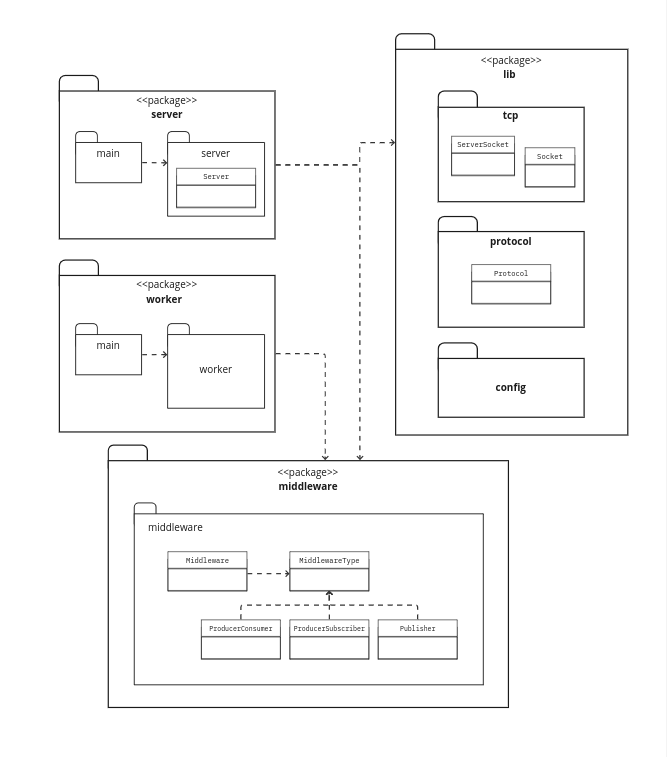
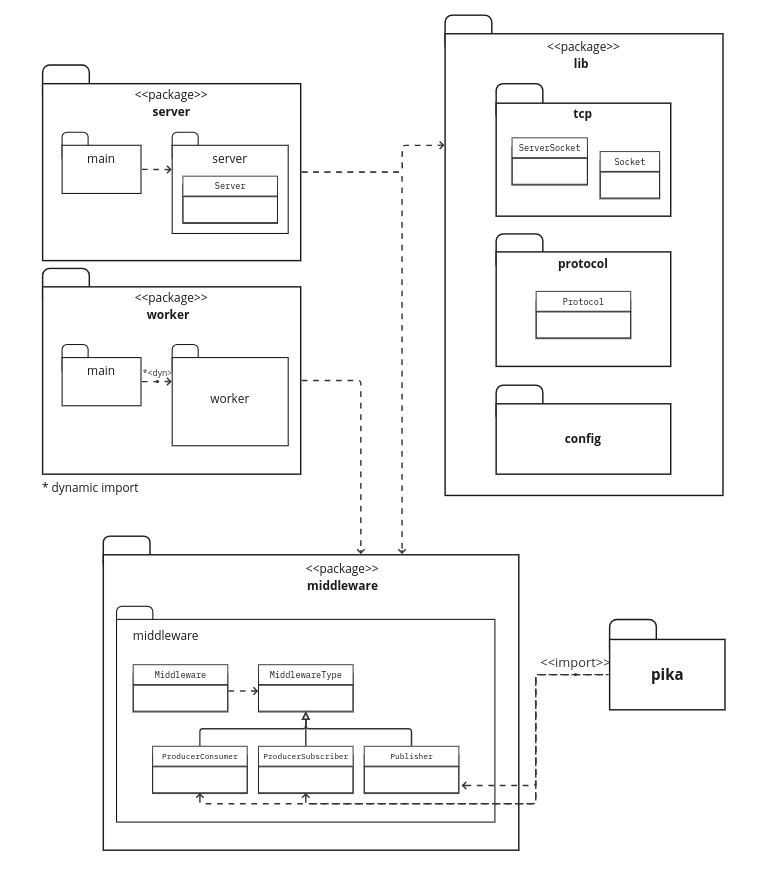
add to readme

diff --git a/README.md b/README.md
@@ -16,7 +16,9 @@ Indice:
   - [Introducción](#introducción)
   - [Desarrollo](#desarrollo)
   - [DAG de la solución](#dag-de-la-solución)
+  - [Cómo correr el proyecto](#cómo-correr-el-proyecto)
   - [Vistas](#vistas)
+    - [Escenarios](#escenarios)
     - [Física](#física)
       - [Despliegue](#despliegue)
       - [Robustez](#robustez)
@@ -25,6 +27,7 @@ Indice:
       - [Secuencia](#secuencia)
     - [Desarrollo](#desarrollo)
       - [Paquetes](#paquetes)
+  - [Video Demostración](#video-demostración)
 
 # Documentación técnica
 
@@ -34,7 +37,7 @@ En este proyecto se busca crear un sistema distribuido que analice 6 meses de re
 
 Los registros poseen trayectos (aeropuertos origen-destino), tarifa total,  distancia total, duración, cada segmento con escalas y aerolíneas.
 
-Utilizando una arquitectura cliente-servidor, los registros se deben leer en el cliente, recibir en el servidor y procesar en diversos workers de manera que los mismos se puedan replicar y el sistema sea escalable.
+Utilizando una arquitectura cliente-servidor, los registros se deben leer en el cliente, recibir en el servidor y procesar en diversos workers de manera que los mismos se puedan replicar y el sistema sea escalable. Además, se deben utilizar los middleware correspondientes para minimizar la pérdida de datos.
 
 Se busca procesar las siguientes queries:
 
@@ -48,11 +51,11 @@ media general de precios.
 
 ## Desarrollo
 
-El proyecto posee un cliente, un servidor y ocho workers con capacidad de replicación, además de siete middlewares, tres de los cuales son de la forma Producer-Subscriber (PS) y el resto Producer-Consumer (PC). 
+El proyecto posee un cliente, un servidor y ocho workers con capacidad de replicación. Estos se comunican a través de un Middleware, que puede utilizarse para el envío de mensajes con colas de la forma Producer-Subscriber (PS) o Producer-Consumer (PC).
 
-Para la creación de los middlewares se utilizó el software RabbitMQ, creando Exchanges para los de tipo PS y working queues para los de tipo PC. 
+Se utilizó el software RabbitMQ, creando Exchanges para los de tipo PS y Working Queues para los de tipo PC.
 
-Para la comunicación entre cliente y servidor se utilizaron sockets a través del protocolo TCP, con un protocolo de mensajería que consiste en los registros separados por "\n" con cada valor dentro del registro separado por ";". Estos registros se envían de a batches, con un header y un body que consiste en el tamaño de cada batch seguido de los registros. El header es un string que denota el tipo de datos que se están enviando y cuando se terminan de enviar todos los datos se envía un "EOF" con un body de valor cero. 
+Además se implementó un cliente de ejemplo que se conecta al sistema a través del protocolo TCP, con un protocolo de mensajería que consiste en los registros separados por "\n" con cada valor dentro del registro separado por ";". Estos registros se envían de a batches, con un header y un body que consiste en el tamaño de cada batch seguido de los registros. El header es un string que denota el tipo de datos que se están enviando y cuando se terminan de enviar todos los datos se envía un "EOF" con un body de valor cero.
 
 Los batches luego pasan por los middlewares y se van repartiendo a los workers para completar las queries necesarias. Cuando se van obteniendo resultados se los agrega a un middleware de resultados, que va devolviendo los mismos al servidor y a su vez este los manda al cliente.
 
@@ -64,7 +67,43 @@ Así, el servidor cuenta los EOF que recibe con un body que tiene el nombre de u
 
 ![](docs/diagramas/DAG.png)
 
-En este gŕafico se puede observar en forma de grafo el "camino" de los datos desde que se reciben en el servidor hasta que llegan a los resultados, luego de su correspondiente procesamiento. Cada nodo representa un worker, que procesa los datos recibidos y envía al siguiente worker los datos procesados. Finalmente, esos resultados convergen en un sink. 
+En este gŕafico se puede observar en forma de grafo el "camino" de los datos desde que se reciben en el servidor hasta que llegan a los resultados, luego de su correspondiente procesamiento. Cada nodo representa un worker, que procesa los datos recibidos y envía al siguiente worker los datos procesados. Finalmente, esos resultados convergen en un sink.
+
+
+## Cómo correr el proyecto
+
+- Instalación del paquete `tp`:
+``` 
+ pip install -e .
+```
+
+- Testear la instalación con:
+
+```
+tp --help
+```   
+
+- Configuración del sistema (valores por defecto en [workers](cli/utils/workers.py)):
+
+```
+tp configure
+```
+(Se puede verificar qué configuración aplicar con `tp configure --help`)
+
+- Ejecución del sistema
+
+```
+tp run --build
+```
+    
+(Se puede verificar qué imagen construir con `tp build --help`)
+
+### Cliente
+
+- Ejecución del cliente:
+```
+tp client --build
+```
 
 ## Vistas
 
@@ -78,24 +117,22 @@ En este gŕafico se puede observar en forma de grafo el "camino" de los datos de
   - Flujo Básico:
     1) El cliente se conecta al servidor.
     2) El cliente envía los datos de aeropuertos e itinerarios al sistema.
-- Consultar vuelos con muchas escalas
+- Consultar vuelos con muchas escalas _(Query 1)_
   Permite al cliente obtener información de los vuelos que tienen 3 o más escalas.
   - Precondiciones: Se realizó la carga de datos al sistema.
-  - Flujo Básico:
-    1) El cliente realiza la consulta.
-  - Postcondiciones: 
-- Consultar vuelos con distancia recorrida mayor a origen-destino
+  - Postcondiciones: _no hay_.
+- Consultar vuelos con distancia recorrida mayor a origen-destino _(Query 2)_
   Permite al cliente obtener información de los vuelos que tienen distancia recorrida 4 veces mayor o más a la distancia origen-destino.
   - Precondiciones: Se realizó la carga de datos al sistema.
-  - Postcondiciones:
-- Consultar vuelos más rápidos por tramo
+  - Postcondiciones: _no hay_.
+- Consultar vuelos más rápidos por tramo _(Query 3)_
   Permite al cliente obtener los 2 vuelos más rápidos (con menor tiempo) por cada tramo para aquellos vuelos con 3 o más escalas.
   - Precondiciones: Se realizó la carga de datos al sistema.
-  - Postcondiciones:
-- Consultar métricas de precios por trayecto
+  - Postcondiciones: _no hay_.
+- Consultar métricas de precios por trayecto _(Query 4)_
   Obtener, para los vuelos con precio mayor a la media, el valor medio y máximo de precio por cada trayecto.
   - Precondiciones: Se realizó la carga de datos al sistema.
-  - Postcondiciones: 
+  - Postcondiciones: _no hay_.
 
 ### Física
 
@@ -111,6 +148,8 @@ En este diagrama de despliegue se puede observar que se posee una instancia del 
 
 ![](docs/diagramas/robustez.png)
 
+En el diagrama de robustez se muestra la arquitectura del sistema, con instancias de servidor y workers, así como qué tipo de interfaz de middleware se está usando (PS o PC). Hay workers que están duplicados, lo que implica que se pueden instanciar réplicas de los mismos y hay dos workers que no se pueden replicar (_fastest_by_route_ y _price_by_route_). Se puede observar que este diagrama es prácticamente análogo al DAG, lo que tiene sentido ya que el sistema procesa datos de manera distribuída.
+
 ### Procesos
 
 _[Volver al Indice](#indice)_
@@ -118,6 +157,8 @@ _[Volver al Indice](#indice)_
 #### Actividad
 
 ![](docs/diagramas/actividad.png)
+
+En este diagrama se muestra cómo los distintos nodos se comunican entre sí para completar la Query 4 (Obtener media y máximo de precio por tramo para los vuelos con precio mayor a la media general). El flujo de los datos pasa por un filtro general para luego dividirse en: un worker que calcula la media general y otro que sólo acumula precios agrupados por tramo (para luego ser filtrados por la media general). Finalmente el segundo de estos envía los valores filtrados a un último nodo que realiza la agregación final para luego enviar los resultados al servidor.
 
 #### Secuencia
 
@@ -133,3 +174,10 @@ _[Volver al Indice](#indice)_
 
 ![](docs/diagramas/paquetes.png)
 
+El diagrama de paquetes muestra la distribución del código. Se tiene un paquete server, al cual se accede por un main. Lo mismo sucede para el módulo de cada worker, que se crea con un _dynamic import_ que sirve para determinar por configuración qué worker se estará ejecutando. Además, se tiene un paquete 'lib' que publica otros módulos (`tcp`, `serde`, `config`, `logs`) con clases y funciones compartidas en todos los otros paquetes, y define configuraciones y protocolos de envío de mensajes. Finalmente, el módulo Middleware posee una clase abstracta `MiddlewareType`, lo que permite implementar el patrón de diseño Strategy para poder abstraerse del tipo de Middleware que se desea usar (Producer-Subscriber, Producer-Consumer o Publisher). Todos utilizan la librería externa Pika para conectarse con RabbitMQ.
+
+
+
+## Video demostración
+
+Video demostración del programa corriendo con todos los datos: https://www.youtube.com/watch?v=ygr7mpo0nO4&ab
